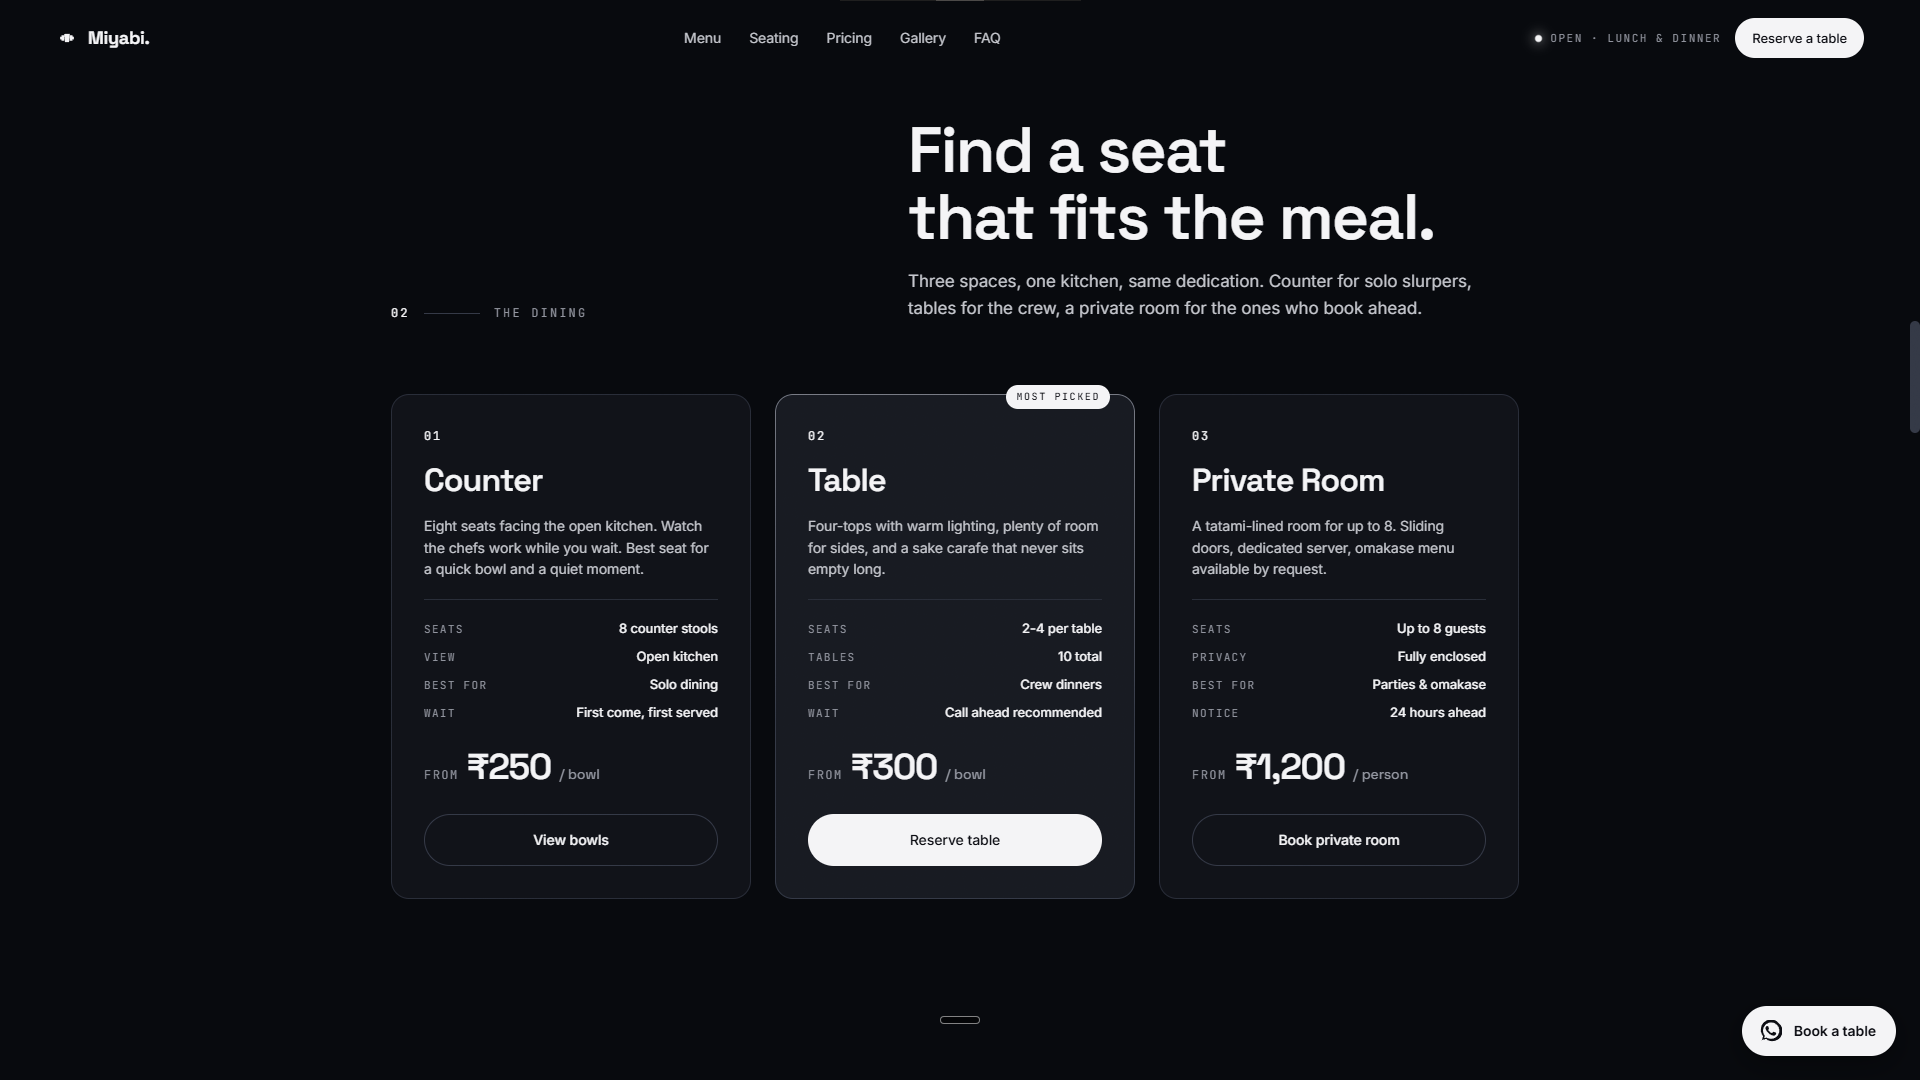
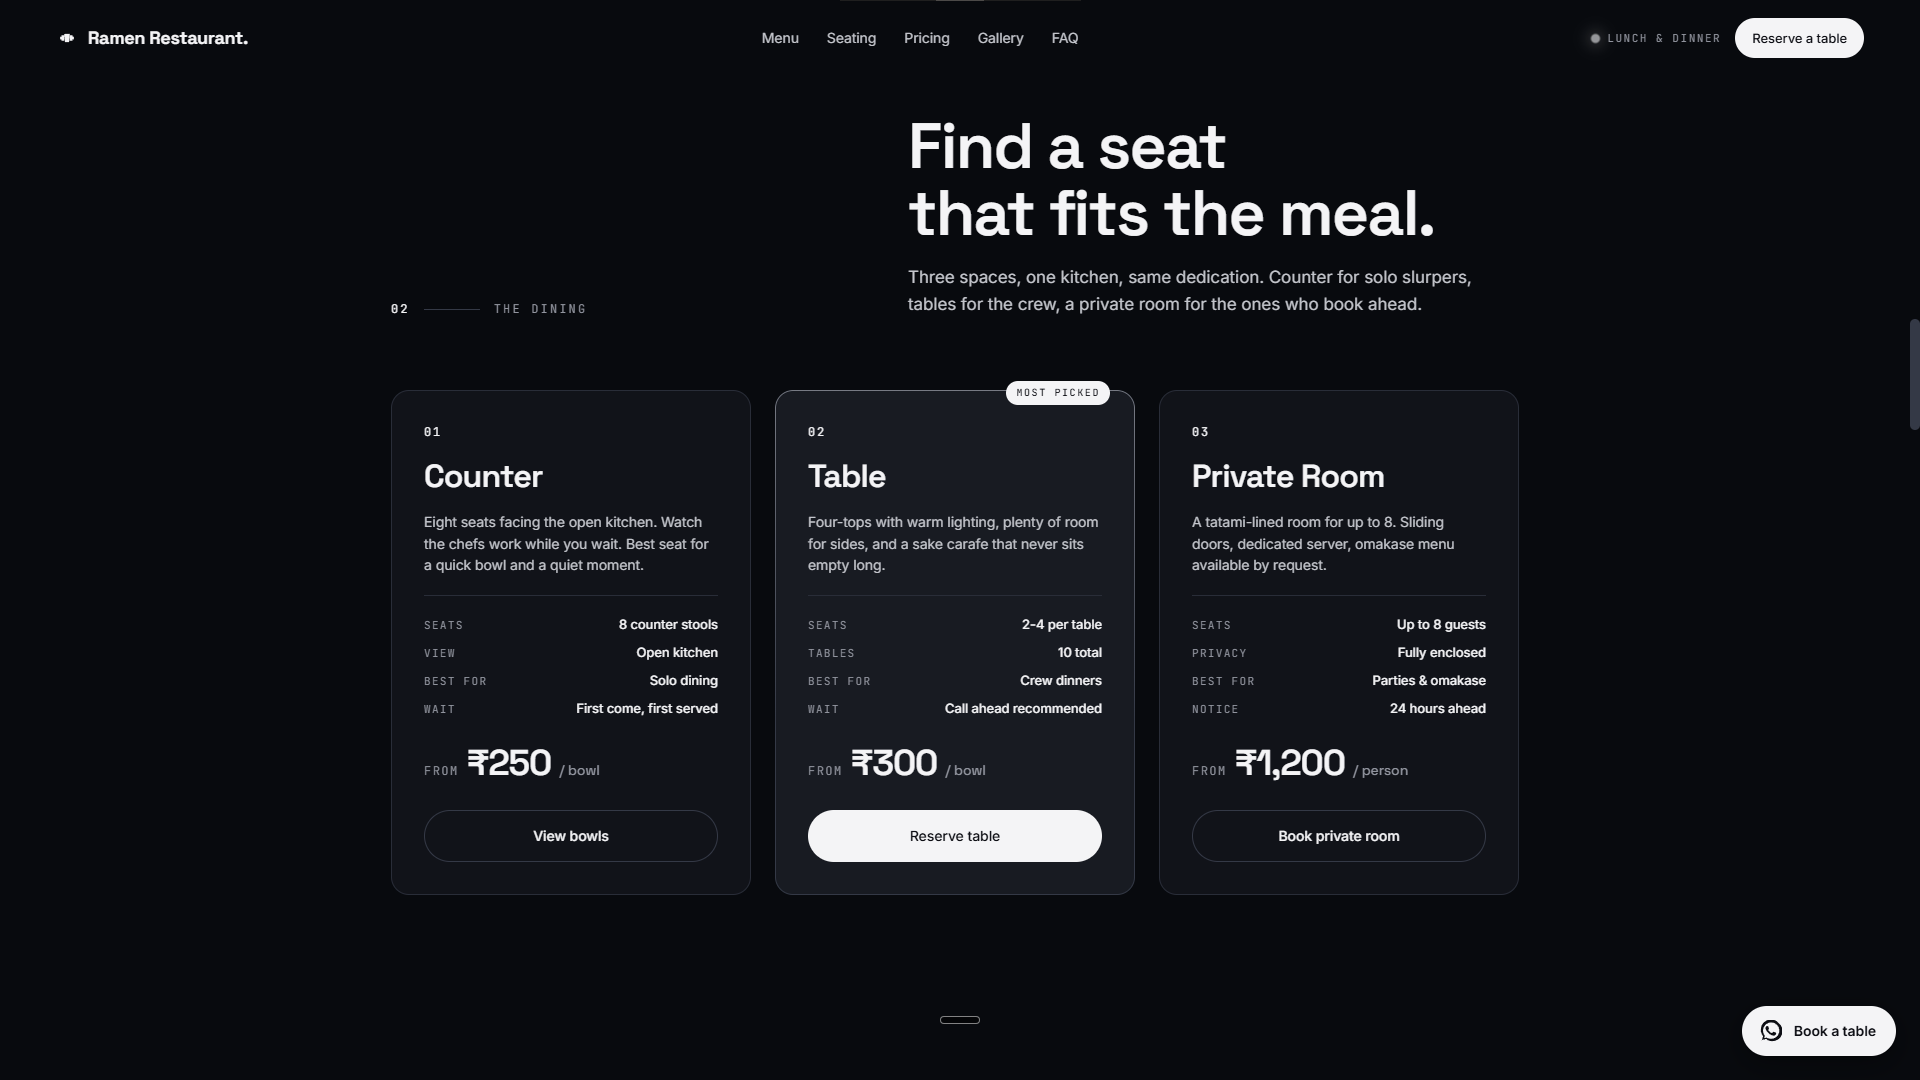
checkpoint: renamed + new images (before README edit)

diff --git a/index.html b/index.html
@@ -3,14 +3,15 @@
 <head>
   <meta charset="utf-8" />
   <meta name="viewport" content="width=device-width, initial-scale=1, viewport-fit=cover" />
-  <title>Miyabi — Japanese Ramen & Kitchen</title>
-  <meta name="description" content="Miyabi is an authentic Japanese ramen-ya serving handmade tonkotsu, shoyu, and miso ramen with premium toppings in an intimate setting." />
-  <meta property="og:title" content="Miyabi — Japanese Ramen & Kitchen">
-  <meta property="og:description" content="Miyabi is an authentic Japanese ramen-ya serving handmade tonkotsu, shoyu, and miso ramen with premium toppings in an intimate setting.">
+  <title>Ramen Restaurant (Demo) — Japanese Ramen & Kitchen</title>
+  <meta name="description" content="Ramen Restaurant is an authentic Japanese ramen-ya serving handmade tonkotsu, shoyu, and miso ramen with premium toppings in an intimate setting. Demo concept website, not a real restaurant." />
+  <meta property="og:title" content="Ramen Restaurant (Demo) — Japanese Ramen & Kitchen">
+  <meta property="og:description" content="Ramen Restaurant is an authentic Japanese ramen-ya serving handmade tonkotsu, shoyu, and miso ramen with premium toppings in an intimate setting. Demo concept website, not a real restaurant.">
   <meta property="og:type" content="restaurant">
   <meta property="og:url" content="https://miyabi-japanese-ramen.akshaycodecrafter.workers.dev/" />
   <meta property="og:image" content="https://miyabi-japanese-ramen.akshaycodecrafter.workers.dev/assets/preview-hero.png" />
   <meta name="theme-color" content="#080a0e" />
+  <meta name="robots" content="noindex, nofollow" />
   <link rel="preconnect" href="https://fonts.googleapis.com" />
   <link rel="preconnect" href="https://fonts.gstatic.com" crossorigin />
   <link rel="preconnect" href="https://images.unsplash.com" />
@@ -22,11 +23,11 @@
   <div class="noise" aria-hidden="true"></div>
 
   <header class="nav" id="nav">
-    <a class="nav__brand" href="#top" aria-label="Miyabi home">
+    <a class="nav__brand" href="#top" aria-label="Ramen Restaurant home">
       <svg class="nav__logo" viewBox="0 0 32 32" aria-hidden="true">
         <path d="M8 12h4v8H8zm12 0h4v8h-4zM6 14h2v4H6zm18 0h2v4h-2zM12 10h8l-1 12h-6z" fill="currentColor"/>
       </svg>
-      <span class="nav__name">Miyabi<span class="nav__dot">.</span></span>
+      <span class="nav__name">Ramen Restaurant<span class="nav__dot">.</span></span>
     </a>
     <nav class="nav__links" aria-label="Primary">
       <a href="#menu">Menu</a>
@@ -36,7 +37,7 @@
       <a href="#faq">FAQ</a>
     </nav>
     <div class="nav__cta">
-      <span class="nav__status"><span class="status-dot"></span>Open · Lunch & Dinner</span>
+      <span class="nav__status"><span class="status-dot"></span>Lunch & Dinner</span>
       <a class="btn btn--primary btn--sm" href="#book">Reserve a table</a>
     </div>
     <button class="nav__burger" aria-label="Open menu" id="burger">
@@ -65,12 +66,12 @@
           <div class="hero__col-left">
             <div class="hero__badge animate-fade-in delay-100">
               <svg class="hero__star" viewBox="0 0 24 24" aria-hidden="true"><path d="M12 2l3.09 6.26L22 9.27l-5 4.87 1.18 6.88L12 17.77l-6.18 3.25L7 14.14 2 9.27l6.91-1.01L12 2z"/></svg>
-              <span>Open today · Ramen served nightly</span>
+              <span>Ramen served nightly</span>
             </div>
 
             <h1 class="hero__title animate-fade-in delay-200">
               <br>
-              <span class="hero__title-accent">Miyabi.</span>
+              <span class="hero__title-accent">Ramen.</span>
             </h1>
 
             <p class="hero__sub animate-fade-in delay-300">
@@ -106,7 +107,7 @@
 
                 <div class="hero-card__progress">
                   <div class="hero-card__progress-row">
-                    <span>Tonight seats filled</span>
+                    <span>Seats filled (sample)</span>
                     <span>94%</span>
                   </div>
                   <div class="hero-card__progress-bar">
@@ -125,7 +126,7 @@
                 </div>
 
                 <div class="hero-card__pills">
-                  <span class="pill"><span class="pill__dot" aria-hidden="true"></span>OPEN</span>
+                  <span class="pill"><span class="pill__dot" aria-hidden="true"></span>Tue–Sun</span>
                 </div>
               </div>
             </article>
@@ -427,7 +428,7 @@
           <div class="section__kicker reveal" data-reveal>
             <span class="kicker-num">04</span>
             <span class="kicker-line"></span>
-            <span class="kicker-text">Why Miyabi</span>
+            <span class="kicker-text">Why Ramen Restaurant</span>
           </div>
           <div class="section__row">
             <h2 class="section__title reveal" data-reveal>
@@ -439,7 +440,7 @@
         <div class="why-grid">
           <article class="why-card reveal" data-reveal style="--i:0"><span class="why-card__num">01</span><h3>18-hour broth, every batch.</h3><p>We don't cut corners. Each broth simmers overnight — bones, aromatics, and patience. No powders, no shortcuts.</p></article>
           <article class="why-card reveal" data-reveal data-reveal-delay="80" style="--i:1"><span class="why-card__num">02</span><h3>Noodles made in-house.</h3><p>Fresh ramen noodles every morning — the right chew, the right bite. They wait for the broth, not the other way around.</p></article>
-          <article class="why-card reveal" data-reveal data-reveal-delay="160" style="--i:2"><span class="why-card__num">03</span><h3>Chashu, not charlie.</h3><p>Pork belly slow-braised for hours, sliced thick, torched to order. It's the centerpiece, not an afterthought.</p></article>
+          <article class="why-card reveal" data-reveal data-reveal-delay="160" style="--i:2"><span class="why-card__num">03</span><h3>Chashu, done right.</h3><p>Pork belly slow-braised for hours, sliced thick, torched to order. It's the centerpiece, not an afterthought.</p></article>
           <article class="why-card reveal" data-reveal data-reveal-delay="240" style="--i:3"><span class="why-card__num">04</span><h3>24 seats, one kitchen.</h3><p>We stay small on purpose. Every bowl gets the same attention whether you're at the counter or the private room.</p></article>
           <article class="why-card reveal" data-reveal data-reveal-delay="320" style="--i:4"><span class="why-card__num">05</span><h3>Sake you'll remember.</h3><p>A small but considered list — junmai, ginjo, and rotating seasonal bottles. Ask your server for the pour of the week.</p></article>
           <article class="why-card reveal" data-reveal data-reveal-delay="400" style="--i:5"><span class="why-card__num">06</span><h3>Service with soul.</h3><p>We know our regulars by name and by order. If we haven't met you yet, we're looking forward to it.</p></article>
@@ -479,14 +480,14 @@
           <div class="section__kicker reveal" data-reveal>
             <span class="kicker-num">06</span>
             <span class="kicker-line"></span>
-            <span class="kicker-text">Word on the floor</span>
+            <span class="kicker-text">Word on the floor · Sample reviews</span>
           </div>
         </header>
 
         <div class="quotes">
-          <article class="quote reveal" data-reveal style="--i:0"><p>"The tonkotsu broth is unbelievably rich — you can tell it's been going all day. The chashu melts. Best ramen I've had outside Tokyo."</p><footer><b>Ananya M.</b><span>Tonkotsu loyalist</span></footer></article>
-          <article class="quote reveal" data-reveal data-reveal-delay="100" style="--i:1"><p>"Came for a quick lunch, ended up staying for three bowls and the matcha tiramisu. The counter seat overlooking the kitchen is everything."</p><footer><b>Rahul P.</b><span>Regular at counter 4</span></footer></article>
-          <article class="quote reveal" data-reveal data-reveal-delay="200" style="--i:2"><p>"Booked the private room for my birthday — 7 of us, omakase menu, paired sakes. Worth every penny. The staff made the night."</p><footer><b>Neha K.</b><span>Private room regular</span></footer></article>
+          <article class="quote reveal" data-reveal style="--i:0"><p>"The tonkotsu broth is unbelievably rich — you can tell it's been going all day. The chashu melts. Best ramen I've had outside Tokyo."</p><footer><b>Sample Guest A</b><span>Tonkotsu loyalist</span></footer></article>
+          <article class="quote reveal" data-reveal data-reveal-delay="100" style="--i:1"><p>"Came for a quick lunch, ended up staying for three bowls and the matcha tiramisu. The counter seat overlooking the kitchen is everything."</p><footer><b>Sample Guest B</b><span>Regular at counter 4</span></footer></article>
+          <article class="quote reveal" data-reveal data-reveal-delay="200" style="--i:2"><p>"Booked the private room for my birthday — 7 of us, omakase menu, paired sakes. Worth every penny. The staff made the night."</p><footer><b>Sample Guest C</b><span>Private room regular</span></footer></article>
         </div>
       </div>
     </section>
@@ -503,11 +504,11 @@
             <h2 class="book__title">Save the seat.<br/><span class="accent">Show up. Slurp happy.</span></h2>
             <p class="book__lede">Drop us a message on WhatsApp with the date, number of guests, and any dietary notes. We'll confirm your table in under 5 minutes.</p>
             <div class="book__cta">
-              <a class="btn btn--primary btn--lg" href="https://wa.me/919876543210?text=Hi%20Miyabi%2C%20I'd%20like%20to%20book%20a%20table." target="_blank" rel="noopener">
+              <a class="btn btn--primary btn--lg" href="https://wa.me/910000000000?text=Hi%20Ramen%20Restaurant%2C%20I'd%20like%20to%20book%20a%20table." target="_blank" rel="noopener">
                 <svg viewBox="0 0 24 24" aria-hidden="true" width="20" height="20"><path fill="currentColor" d="M20.5 3.5A11 11 0 0 0 3.4 17.6L2 22l4.5-1.4A11 11 0 1 0 20.5 3.5Zm-8.5 17a8.9 8.9 0 0 1-4.5-1.2l-.3-.2-2.7.8.8-2.6-.2-.3A8.9 8.9 0 1 1 12 20.5Zm5-6.7c-.3-.1-1.7-.8-2-.9s-.5-.1-.7.1-.8.9-1 1.1-.4.2-.7.1a7.3 7.3 0 0 1-3.6-3.1c-.3-.5.3-.5.8-1.5a.4.4 0 0 0 0-.4l-1-2.3c-.2-.5-.4-.4-.6-.4h-.5a1 1 0 0 0-.7.3 3 3 0 0 0-1 2.3c0 1.3 1 2.6 1.2 2.8s2 3.1 4.9 4.4c1.8.7 2.5.8 3.4.7a2.9 2.9 0 0 0 1.9-1.4 2.4 2.4 0 0 0 .2-1.4c-.1-.1-.3-.2-.6-.3Z"/></svg>
                 Book on WhatsApp
               </a>
-              <a class="btn btn--ghost btn--lg" href="tel:+919876543210">Call the shop</a>
+              <a class="btn btn--ghost btn--lg" href="tel:+910000000000">Call the shop</a>
             </div>
             <ul class="book__list">
               <li><span>·</span> No prepayment for tables under 6</li>
@@ -541,7 +542,7 @@
           </details>
           <details class="faq__item reveal" data-reveal data-reveal-delay="60">
             <summary><span>Do you have vegetarian or vegan options?</span><span class="faq__icon" aria-hidden="true"></span></summary>
-            <div class="faq__body"><p>Yes. Our miso broth is plant-based. We also offer a vegan tantanmen with sesame chili broth and tofu. Ask your server about daily veggie specials.</p></div>
+            <div class="faq__body"><p>Yes, we offer vegetarian options. Ask your server about the current vegetarian and vegan choices and how they are prepared.</p></div>
           </details>
           <details class="faq__item reveal" data-reveal data-reveal-delay="120">
             <summary><span>Can I customise my bowl?</span><span class="faq__icon" aria-hidden="true"></span></summary>
@@ -549,7 +550,7 @@
           </details>
           <details class="faq__item reveal" data-reveal data-reveal-delay="180">
             <summary><span>Do you cater for gluten allergies?</span><span class="faq__icon" aria-hidden="true"></span></summary>
-            <div class="faq__body"><p>We offer gluten-free rice noodles on request. Please mention it when you book or tell your server — we'll adjust the soy sauce and toppings to be gluten-free as well.</p></div>
+            <div class="faq__body"><p>We can offer gluten-free noodles on request, subject to availability. Please tell us about any allergies when you book or order, and we will do our best to accommodate you.</p></div>
           </details>
           <details class="faq__item reveal" data-reveal data-reveal-delay="240">
             <summary><span>Is there an age limit?</span><span class="faq__icon" aria-hidden="true"></span></summary>
@@ -569,13 +570,13 @@
           <div class="footer__brand">
             <div class="footer__logo">
               <svg viewBox="0 0 32 32" aria-hidden="true"><path d="M8 12h4v8H8zm12 0h4v8h-4zM6 14h2v4H6zm18 0h2v4h-2zM12 10h8l-1 12h-6z" fill="currentColor"/></svg>
-              <span>Miyabi<span class="nav__dot">.</span></span>
+              <span>Ramen Restaurant<span class="nav__dot">.</span></span>
             </div>
             <p>A ramen-ya for people who eat with intention. Walk in, sit down, slurp happy.</p>
             <div class="footer__contact">
-              <a href="https://wa.me/919876543210" target="_blank" rel="noopener">WhatsApp</a>
-              <a href="tel:+919876543210">+91 98765 43210</a>
-              <a href="mailto:hello@miyabi.ramen">hello@miyabi.ramen</a>
+              <a href="https://wa.me/910000000000" target="_blank" rel="noopener">WhatsApp</a>
+              <a href="tel:+910000000000">+91 00000 00000</a>
+              <a href="mailto:hello@ramen-restaurant.example">hello@ramen-restaurant.example</a>
             </div>
           </div>
           <div>
@@ -594,21 +595,22 @@
           <div>
             <h4>Follow</h4>
             <ul>
-              <li><a href="https://instagram.com/miyabi.ramen.delhi">Instagram</a></li>
-              <li><a href="https://youtube.com/@miyabiramen">YouTube</a></li>
-              <li><a href="https://facebook.com/miyabiramendelhi">Facebook</a></li>
+              <li><a href="#">Instagram</a></li>
+              <li><a href="#">YouTube</a></li>
+              <li><a href="#">Facebook</a></li>
             </ul>
           </div>
         </div>
         <div class="footer__bottom">
-          <span>© 2026 Miyabi Ramen. All rights reserved.</span>
+          <span>© 2026 Ramen Restaurant. All rights reserved.</span>
           <span>Made for the slurp.</span>
         </div>
+          <p style="margin-top:20px;font-size:12px;line-height:1.7;color:var(--text-mute);max-width:820px;">Demo concept by CodeX. Ramen Restaurant is a fictional restaurant created only to showcase web design and development work. The name, menu, prices, reviews, phone number, email, address and social links on this page are illustrative and do not belong to any real business. Photography is sourced from Unsplash. Any resemblance to an actual restaurant is purely coincidental.</p>
       </div>
     </footer>
   </main>
 
-  <a class="whatsapp" href="https://wa.me/919876543210?text=Hi%20Miyabi%2C%20I'd%20like%20to%20book%20a%20table." target="_blank" rel="noopener" aria-label="Chat on WhatsApp">
+  <a class="whatsapp" href="https://wa.me/910000000000?text=Hi%20Ramen%20Restaurant%2C%20I'd%20like%20to%20book%20a%20table." target="_blank" rel="noopener" aria-label="Chat on WhatsApp">
     <svg viewBox="0 0 24 24" aria-hidden="true" width="26" height="26"><path fill="currentColor" d="M20.5 3.5A11 11 0 0 0 3.4 17.6L2 22l4.5-1.4A11 11 0 1 0 20.5 3.5Zm-8.5 17a8.9 8.9 0 0 1-4.5-1.2l-.3-.2-2.7.8.8-2.6-.2-.3A8.9 8.9 0 1 1 12 20.5Zm5-6.7c-.3-.1-1.7-.8-2-.9s-.5-.1-.7.1-.8.9-1 1.1-.4.2-.7.1a7.3 7.3 0 0 1-3.6-3.1c-.3-.5.3-.5.8-1.5a.4.4 0 0 0 0-.4l-1-2.3c-.2-.5-.4-.4-.6-.4h-.5a1 1 0 0 0-.7.3 3 3 0 0 0-1 2.3c0 1.3 1 2.6 1.2 2.8s2 3.1 4.9 4.4c1.8.7 2.5.8 3.4.7a2.9 2.9 0 0 0 1.9-1.4 2.4 2.4 0 0 0 .2-1.4c-.1-.1-.3-.2-.6-.3Z"/></svg>
     <span class="whatsapp__label">Book a table</span>
   </a>

diff --git a/css/style.css b/css/style.css
@@ -1,5 +1,5 @@
 /* =========================================================
-   Miyabi — style.css (tokens, reset, type, layout)
+   Ramen Restaurant — style.css (tokens, reset, type, layout)
    ========================================================= */
 :root {
   --bg:           #080a0e;
@@ -119,7 +119,7 @@ p  { margin: 0; color: var(--text-soft); }
 }
 
 /* =========================================================
-   Miyabi — style.css (nav, hero, cards, footer, etc)
+   Ramen Restaurant — style.css (nav, hero, cards, footer, etc)
    ========================================================= */
 .nav {
   position: fixed; top: 0; left: 0; right: 0; z-index: 100;
@@ -449,7 +449,7 @@ p  { margin: 0; color: var(--text-soft); }
 }
 
 /* =========================================================
-   Miyabi — style.css
+   Ramen Restaurant — style.css
    ========================================================= */
 .animate-fade-in { opacity: 0; animation: fadeIn 0.8s var(--ease-out) forwards; }
 .delay-100 { animation-delay: 0.1s; }
@@ -562,7 +562,7 @@ p  { margin: 0; color: var(--text-soft); }
   .plan .btn { padding: 14px 20px; font-size: 14px; border-radius: 14px; }
   .pricing-note { font-size: 12px; margin-top: 24px; }
 
-  /* ---- Why Miyabi ---- */
+  /* ---- Why Ramen Restaurant ---- */
   .why-grid { border-radius: 16px; }
   .why-card { padding: 24px; }
   .why-card__num { font-size: 12px; }

diff --git a/README.md b/README.md
@@ -1,6 +1,8 @@
-# Miyabi — Japanese Ramen & Kitchen
+# Ramen Restaurant — Japanese Ramen & Kitchen
 
 A landing page concept for an intimate Japanese ramen-ya in Connaught Place, New Delhi.
+
+> **Demo concept.** Ramen Restaurant is a fictional restaurant created only to showcase web design and development work. The name, menu, prices, reviews, phone number, email, address and social links are illustrative and do not belong to any real business. Photography is sourced from Unsplash. Built by CodeX.
 
 🔗 **Live:** https://miyabi-japanese-ramen.akshaycodecrafter.workers.dev/
 
@@ -13,7 +15,7 @@ A landing page concept for an intimate Japanese ramen-ya in Connaught Place, New
 
 ## About
 
-Miyabi started as a question I kept running into with ramen-shop websites: why do they either look like generic restaurant templates or overdo the "kawaii" aesthetic? I wanted something that felt closer to an actual late-night ramen counter — dim, warm, a little intimate — built around the idea of one kitchen and three broths done properly rather than a sprawling menu. The layout leans on dark tones, a subtle noise texture, and scroll-reveal animations to keep the focus on the food.
+Ramen Restaurant started as a question I kept running into with ramen-shop websites: why do they either look like generic restaurant templates or overdo the "kawaii" aesthetic? I wanted something that felt closer to an actual late-night ramen counter — dim, warm, a little intimate — built around the idea of one kitchen and three broths done properly rather than a sprawling menu. The layout leans on dark tones, a subtle noise texture, and scroll-reveal animations to keep the focus on the food.
 
 ## What's on the page
 
